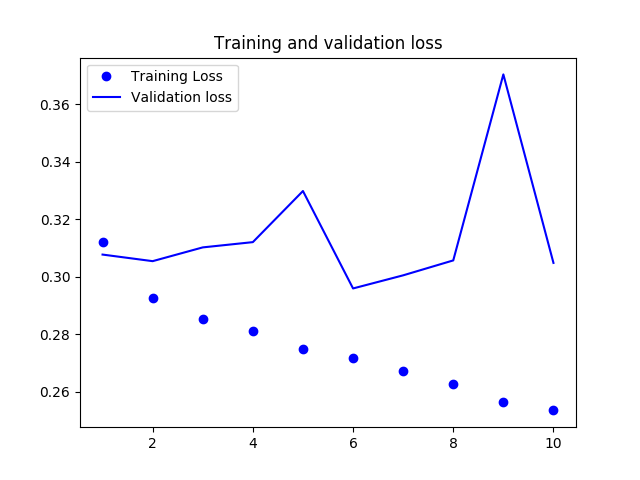
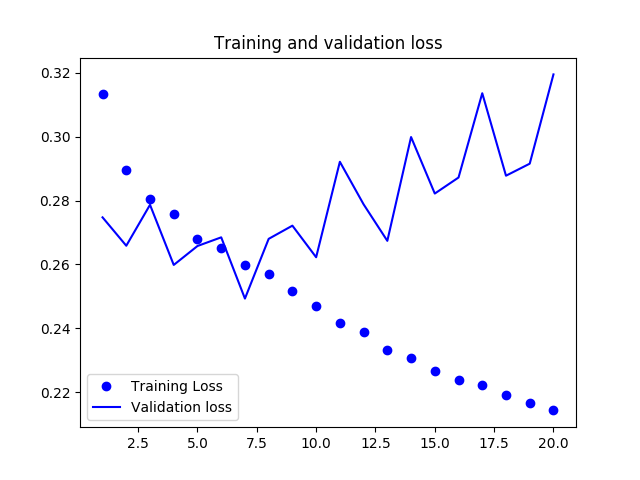
fixed my jena_climate script so it actually runs, lol

diff --git a/Jena_Climate_RNN/Jena_Climate_RNN_Stacked_Dropout_20_percent.py b/Jena_Climate_RNN/Jena_Climate_RNN_Stacked_Dropout_20_percent.py
@@ -62,12 +62,10 @@ def generator(data, lookback, delay, min_index, max_index,
 		#print(name)
 		yield samples, targets
 
-
 lookback = 1440
 step = 6
 delay = 144
 batch_size = 128
-
 
 train_gen = generator(float_data, lookback = lookback, delay = delay, min_index = 0, max_index = 200000,shuffle = True,	 batch_size = batch_size,step = step, name = "train")
 val_gen = generator(float_data, lookback = lookback, delay = delay, min_index = 200001, max_index = 300000, batch_size = batch_size,step = step, name = "val")
@@ -76,18 +74,17 @@ test_gen = generator(float_data, lookback = lookback, delay = delay, min_index =
 val_steps = (300000 - 200001)//batch_size
 test_steps = len(float_data) - 300001 - lookback
  
-#building a model: RNN w/ dropout
+#building a model:Stacked RNN w/ dropout
 
 model = Sequential()
-model.add(layers.GRU(16, dropout=0.2, recurrent_dropout=0.2, input_shape=(None  , float_data.shape[-1])))
-
-
+model.add(layers.GRU(16, dropout = 0.2, recurrent_dropout = 0.2, input_shape= (None, float_data.shape[-1]), return_sequences = True))
+model.add(layers.GRU(32, activation='relu'), dropout=0.2, recurrent_dropout=0.2)
 model.add(layers.Dense(1))
 
 model.compile(optimizer = RMSprop(), loss = 'mae')
 history = model.fit_generator(train_gen,
 							steps_per_epoch = 500,
-							epochs=30,
+							epochs=10,
 							validation_data=val_gen,
 							validation_steps = val_steps)
 	

diff --git a/Jena_Climate_RNN/Jena_Climate_Simple.py b/Jena_Climate_RNN/Jena_Climate_Simple.py
@@ -101,7 +101,7 @@ def generator(data, lookback, delay, min_index, max_index,
 			if i + batch_size >= max_index:
 				i = min_index + lookback
 			rows = np.arange(i, min(i+batch_size,max_index))
-			i != len(rows)
+			i += len(rows)
 		samples = np.zeros((len(rows), lookback //step, data.shape[-1]))
 		targets = np.zeros((len(rows),))
 		for j, row in enumerate(rows):
@@ -133,8 +133,7 @@ test_steps = len(float_data) - 300001 - lookback
 #building a model: 
 
 model = Sequential()
-model.add(layers.Flatten(input_shape=(lookback //step , float_data.shape[-1])))
-model.add(layers.Dense(32, activation = 'relu'))
+model.add(layers.GRU(32, input_shape=(None, float_data.shape[-1])))
 model.add(layers.Dense(1))
 #note the last layer does not have an activation function, because you use the mean absolute error as the loss,
 # therefore, the the baseline's output will be directly comparable to the regression output of mae

diff --git a/Jena_Climate_RNN/Jena_Climate_RNN_Stacked.py b/Jena_Climate_RNN/Jena_Climate_RNN_Stacked.py
@@ -79,15 +79,14 @@ test_steps = len(float_data) - 300001 - lookback
 #building a model: RNN w/ dropout
 
 model = Sequential()
-model.add(layers.GRU(16, dropout=0.2, recurrent_dropout=0.2, input_shape=(None  , float_data.shape[-1])))
-
-
+model.add(layers.GRU(16, input_shape= (None, float_data.shape[-1]), return_sequences = True))
+model.add(layers.GRU(32, activation='relu'))
 model.add(layers.Dense(1))
 
 model.compile(optimizer = RMSprop(), loss = 'mae')
 history = model.fit_generator(train_gen,
 							steps_per_epoch = 500,
-							epochs=30,
+							epochs=10,
 							validation_data=val_gen,
 							validation_steps = val_steps)
 	
